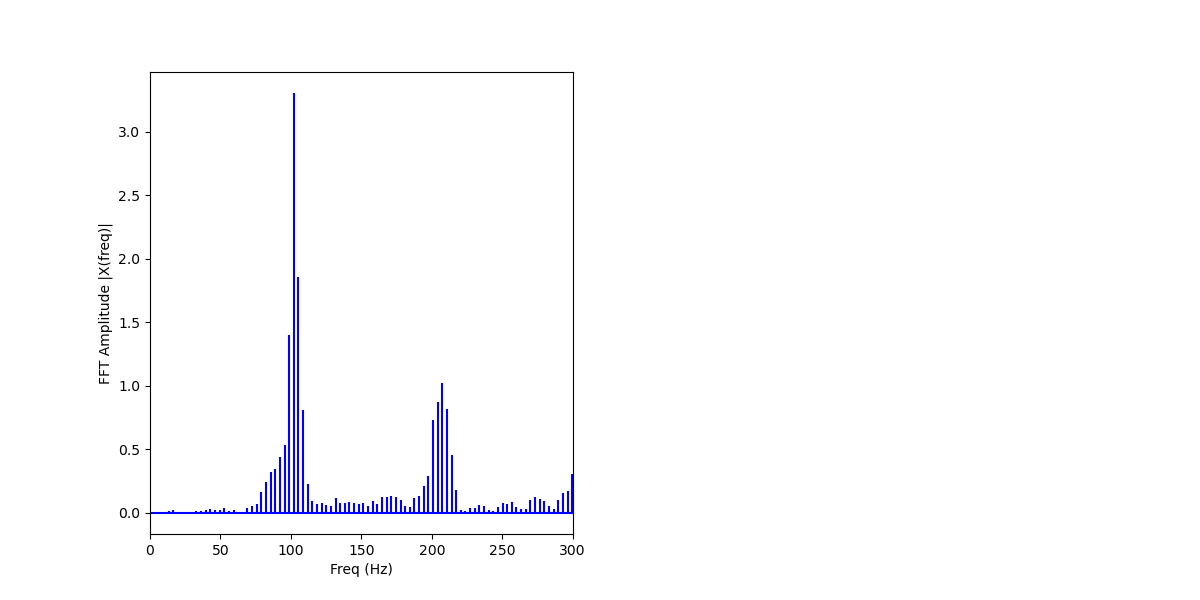
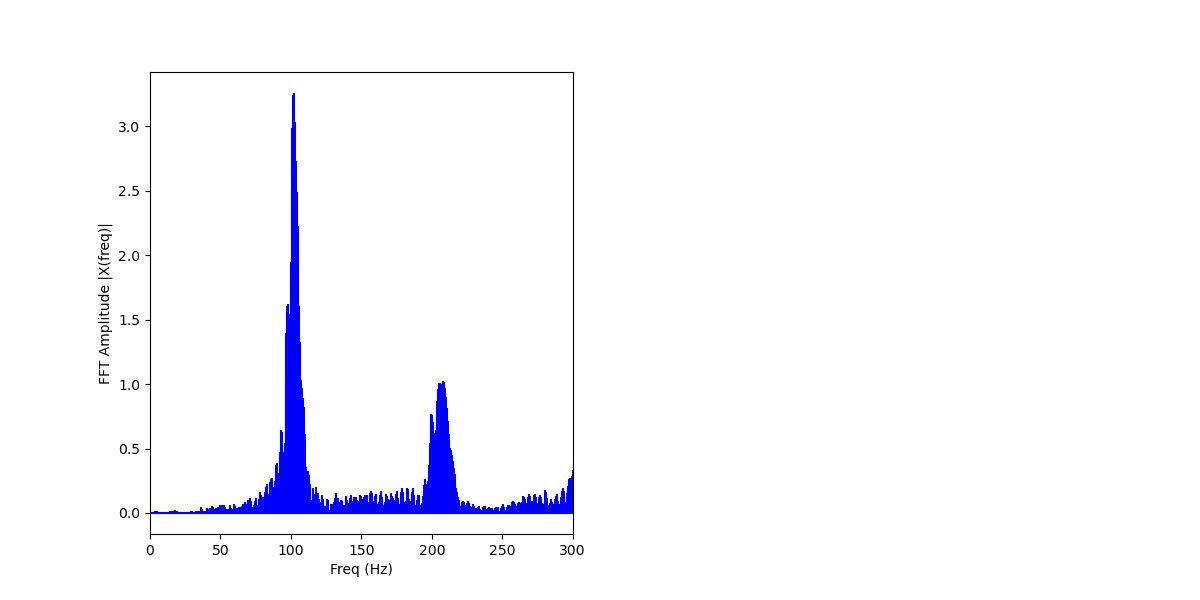
have FFT working, need help decoding lines for exact meaning

diff --git a/numpy_fft.py b/numpy_fft.py
@@ -1,8 +1,10 @@
 import numpy as np
-from numpy.fft import fft
+from numpy.fft import fft, fftfreq
 import matplotlib.pyplot as plt
 import librosa
 import librosa.display
+
+max_freq = dict()
 
 def mod_plots(name):
     sr = 800
@@ -10,44 +12,59 @@ def mod_plots(name):
     t = np.arange(0, 1, ts)
 
     x, sr = librosa.load('recordings/{}.m4a'.format(name), sr = sr)
-    print(x[:400])
-    print("\n")
-    print(x[400:1200])
     arr = np.where(x >= 0.01)
-    print(arr)
-    print(type(arr))
-    # print(x[arr[0]])
-    # print(x[arr[1]])
-    # print(x[arr[2]])
 
-    # librosa.display.waveshow(x[arr[0][0]:], sr=sr)
-    librosa.display.waveshow(x[arr[0][0]:arr[0][-1]], sr = sr)
-    plt.title("Waveform: {}".format(name))
-    plt.savefig('graphs/waveform/{}_threshold.png'.format(name))
+    # librosa.display.waveshow(x[arr[0][0]:arr[0][-1]], sr = sr)
+    # plt.title("Waveform: {}".format(name))
+    # plt.savefig('graphs/waveform/{}_threshold.png'.format(name))
+
+    offset = arr[0][0]
 
     x = x[arr[0][0]:arr[0][-1]]
 
     vals = fft(x)
     length = len(vals)
+
+    print(length)
+
     n = np.arange(length)
     T = length/sr
 
+    freq_bins = fftfreq(len(vals))[108] ## MAX FREQUENCY
+    print("MAX: {}".format(np.abs(freq_bins*sr)))
+
     freq = n/T
+    print("FREQ: {}".format(freq))
+
+    # print(np.max(np.abs(vals)))
+    m_ind = np.argmax(np.abs(vals))
+
+    # print("max_freq: {}".format(m_ind))
+    # print(" magnitude: {}".format(np.abs(vals[m_ind])))
+    # vals[31] = 0
+
+    m2_ind = np.where(vals == np.unique(vals)[-1])
+    # print("max_freq2: {}".format(m2_ind[0][0]))
+
+    v2 = np.zeros(length)
+    v2[m_ind] = np.abs(vals[m_ind])
+    v2[m2_ind] = np.abs(vals[m2_ind])
 
     plt.figure(figsize = (12, 6))
-    plt.subplot(121)
+    # plt.subplot(121)
 
-    plt.stem(freq, np.abs(vals), 'b', \
-             markerfmt=" ", basefmt="-b")
+    # plt.stem(freq, np.abs(vals), 'b', markerfmt=" ", basefmt="-b")
+    plt.stem(freq, np.abs(v2), 'r', markerfmt=" ", basefmt="-b")
     plt.xlabel('Freq (Hz)')
     plt.ylabel('FFT Amplitude |X(freq)|')
-    plt.xlim(0, 300)
+    plt.xlim(0, sr/2) #Nyquist-Shannon and aliasing
     plt.savefig('graphs/FFT/{}.png'.format(name))
     plt.show()
-    print(vals)
+    # print(vals)
 
 if __name__ == "__main__":
-    mod_plots('sahil')
+    # mod_plots('sahil')
     mod_plots("ria")
-    mod_plots("alex")
-    mod_plots("anshul")
+    # mod_plots("alex")
+    # mod_plots("anshul")
+    # print(max_freq)
